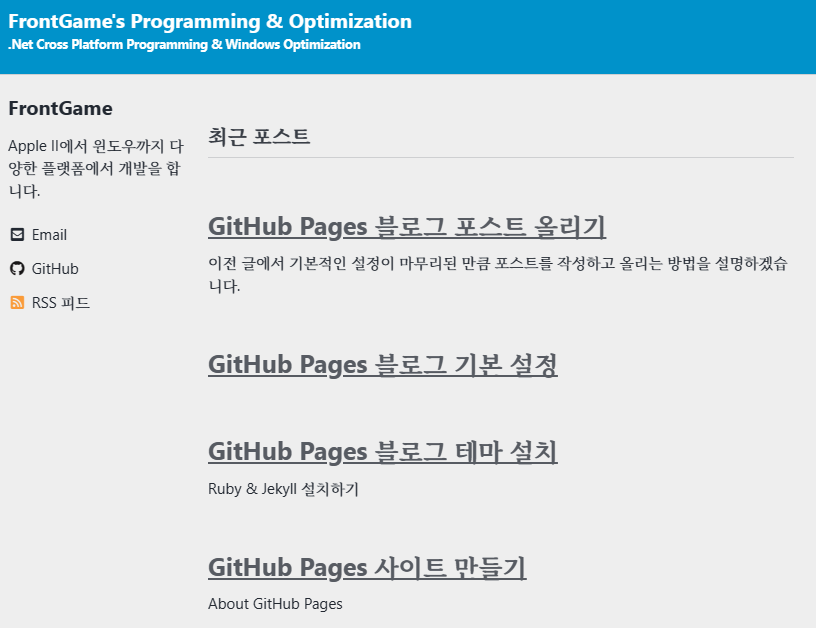
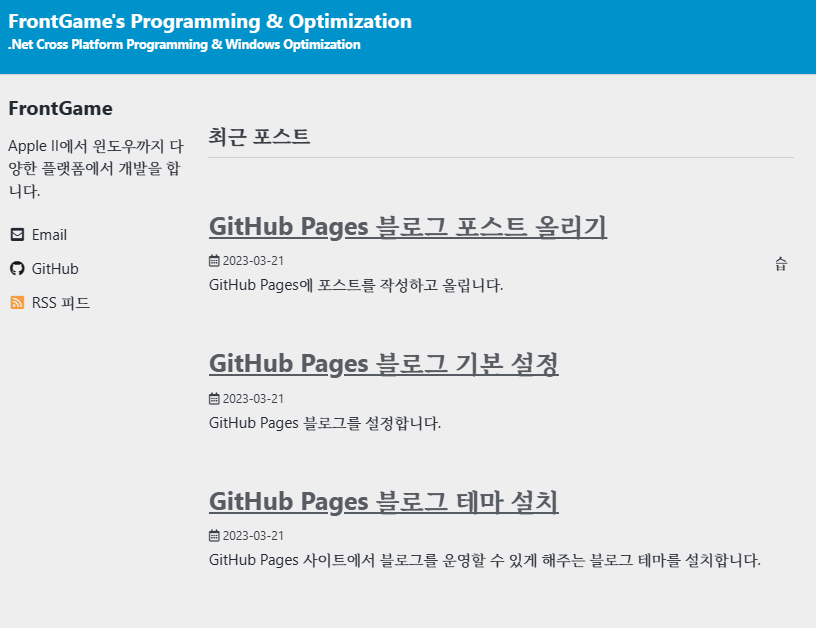
2023-03-23 Edit all posts

diff --git a/GitHub/GitHub-Pages/_posts/2023-03-21-github-pages-blog-config.md b/GitHub/GitHub-Pages/_posts/2023-03-21-github-pages-blog-config.md
@@ -1,9 +1,10 @@
 ---
 title: "GitHub Pages 블로그 기본 설정"
 date: "2023-03-21 14:21:00 +0900"
-last_modified_at: "2023-03-22 12:16:00 +0900"
 tags: [github, github-pages, jekyll, minimal-mistakes]
 ---
+GitHub Pages 블로그를 설정합니다.
+
 ![Github Pages jekyll 테마 설치](/assets/images/github-pages-theme-installed.png)
 
 위의 테마가 설치된 화면을 다시 보면 `Site Title`, `Your Name` 등 많은 수정해야 할 부분들이 보입니다.
@@ -45,14 +46,20 @@ url                      : "https://frontgamevb.github.io"
 # 블로그의 시작 주소를 서브 폴더로 설정할 수 있습니다.
 baseurl                  : # the subpath of your site, e.g. "/blog"
 
-# GitHub의 repository를 설정합니다. GitHub Pages가 아니더라도 연결하고 싶은 repository를 설정하면 됩니다.
+# GitHub의 repository를 설정합니다.
+# GitHub Pages가 아니더라도 연결하고 싶은 repository를 설정하면 됩니다.
 repository               : "frontgamevb/frontgamevb.github.io"
 
 # 사이트 제목 앞에 보여줄 로고입니다.
 logo                     : # path of logo image to display in the masthead, e.g. "/assets/images/88x88.png"
 
-# Site Title 위치에 사이트의 제목인 title의 내용이 아닌 다른 내용이 출력되기를 원할 때 설정합니다.
+# Site Title 위치에 사이트의 제목인 title의 내용이 아닌 다른 내용이
+# 출력되기를 원할 때 설정합니다.
 masthead_title           : # overrides the website title displayed in the masthead, use " " for no title
+
+# 일자 출력 포맷을 2023-03-22 형식으로 변경합니다.
+# date_format이 없을 경우 아무 위치에나 추가해도 됩니다.
+date_format: "%Y-%m-%d"
 ```
 
 ## Site Author
@@ -72,7 +79,8 @@ author:
   # 살고 있는 위치입니다.
   location         : # "대한민국"
 
-  # Email이나 본인의 계정이 있는 사이트들의 링크입니다. icon은 아래 주소에서 검색해서 설정합니다.
+  # Email이나 본인의 계정이 있는 사이트들의 링크입니다.
+  # icon은 아래 주소에서 검색해서 설정합니다.
   # https://fontawesome.com/icons
   links:
     - label: "Email"
@@ -93,6 +101,27 @@ author:
     - label: "Instagram"
       icon: "fab fa-fw fa-instagram"
       # url: "https://instagram.com/"
+```
+
+## 머리말(Front Matter) 기본값
+
+블로그에 올리는 모든 포스트에는 머리말이 포함이 되어 있어야 합니다. `values`에 설정된 값들은 포스트의 머리말에서 생략이 가능합니다.
+
+```yml
+# Defaults
+defaults:
+    values:
+      # 포스트를 읽는데 걸리는 시간을 표시합니다. 도움이 되지 않는 정보입니다.
+      read_time: # true
+
+      # 글의 바로 빝에 일자를 표시합니다.
+      show_date: true
+
+      # 포스트의 오른쪽 사이드에 목차를 보여줍니다. 없으면 추가하기 바랍니다.
+      toc: true
+
+      # 포스트의 오른쪽 사이드에 목차를 스크롤에 영향받지 않고 화면에 고정시킵니다.
+      toc_sticky: true
 ```
 
 ## 설정 결과 확인

diff --git a/GitHub/GitHub-Pages/_posts/2023-03-22-github-pages-blog-tunning.md b/GitHub/GitHub-Pages/_posts/2023-03-22-github-pages-blog-tunning.md
@@ -1,9 +1,10 @@
 ---
 title: "GitHub Pages 블로그 꾸미기"
 date: "2023-03-22 15:09:00 +0900"
-last_modified_at: "2023-03-22 19:38:00 +0900"
 tags: [github, github-pages, jekyll, minimal-mistakes]
 ---
+GitHub Pages 블로그를 꾸밉니다.
+
 ## 최근 포스트 화면
 
 ![GitHub Pages 최근 포스트](/assets/images/github-pages-recent-posts.png)
@@ -88,24 +89,6 @@ $navicon-link-color-hover: mix(#fff, $text-color, 80%) !default;
 코드 중 코멘트로 추가 또는 수정이라고 표시 되어있는 줄만 자신의 스킨에 추가, 수정하면 됩니다.
 
 여기서 주의할 점은 `$masthead-text-color`의 색상은 아래 `.page__footer`의 `color`와 동일하게 설정해야 한다는 것입니다.
-
-### `x분 소요` 삭제
-
-포스트 밑에 `X분 소요`라고 해당 포스트 별로 글을 읽는데 걸리는 시간을 대략적으로 보여주는데 이게 유용한 경우는 거의 없기 때문에 삭제합니다.
-
-`_config.yml` 파일 맨 아래에 있는 `read_time`의 값을 코멘트 처리하면 됩니다.
-
-```yml
-defaults:
-  # _posts
-  - scope:
-      path: ""
-      type: posts
-    values:
-      layout: single
-      author_profile: true
-      read_time: # true
-```
 
 ## 최근 포스트 수정 화면
 

diff --git a/GitHub/GitHub-Pages/_posts/2023-03-21-github-pages-blog-posts.md b/GitHub/GitHub-Pages/_posts/2023-03-21-github-pages-blog-posts.md
@@ -1,10 +1,9 @@
 ---
 title: "GitHub Pages 블로그 포스트 올리기"
 date: "2023-03-21 19:22:00 +0900"
-last_modified_at: "2023-03-22 13:27:00 +0900"
 tags: [github, github-pages, jekyll, minimal-mistakes]
 ---
-이전 글에서 기본적인 설정이 마무리된 만큼 포스트를 작성하고 올리는 방법을 설명하겠습니다.
+GitHub Pages에 포스트를 작성하고 올립니다.
 
 ## 파일명
 
@@ -20,12 +19,13 @@ tags: [github, github-pages, jekyll, minimal-mistakes]
 ```
 여기서 주의할 점은 월 또는 일이 한 자리일 경우에도 앞에 0을 붙여 두 자리로 만들어야 합니다.
 
-## 머리말 (front-matter)
+## 머리말 (Front Matter)
+
+포스트는 항상 머리말로 시작해야 합니다. 머리말에 생략된 설정은 `_config.yml` 파일의 `defaults` 설정을 따릅니다.
 
 ```md
 ---
 # _layouts 폴더에 있는 layout 파일 중 하나를 선택합니다.
-# 생략하면 _config.yml의 defaults의 layout으로 설정됩니다.
 layout: single
 
 # 글 제목입니다.

diff --git a/GitHub/GitHub-Pages/_posts/2023-03-21-github-pages-blog-theme.md b/GitHub/GitHub-Pages/_posts/2023-03-21-github-pages-blog-theme.md
@@ -3,6 +3,8 @@ title: "GitHub Pages 블로그 테마 설치"
 date: "2023-03-21 14:17:00 +0900"
 tags: [github, github-pages, ruby, jekyll, minimal-mistakes]
 ---
+GitHub Pages 사이트에서 블로그를 운영할 수 있게 해주는 블로그 테마를 설치합니다.
+
 ## Ruby & Jekyll 설치하기
 
 GitHub Pages에 Jekyll이 내장되어 있지만 알다시피 GitHub에서 직접 코드를 작성하는 일은 불편하고 비효율적이기 때문에 하지 않습니다.

diff --git a/GitHub/GitHub-Pages/_posts/2023-03-21-github-pages.md b/GitHub/GitHub-Pages/_posts/2023-03-21-github-pages.md
@@ -3,6 +3,8 @@ title: "GitHub Pages 사이트 만들기"
 date: "2023-03-21 14:10:00 +0900"
 tags: [github, github-pages]
 ---
+GitHub에서 웹 호스팅 서비스를 받을 수 있는 GitHub Pages 사이트를 만듭니다.
+
 ## About GitHub Pages
 
 GitHub에서 제공하는 정적 사이트 호스팅 서비스로 데이터베이스나 서버를 다룰 수 없기 때문에 간단한 웹사이트 제작에 알맞습니다.
